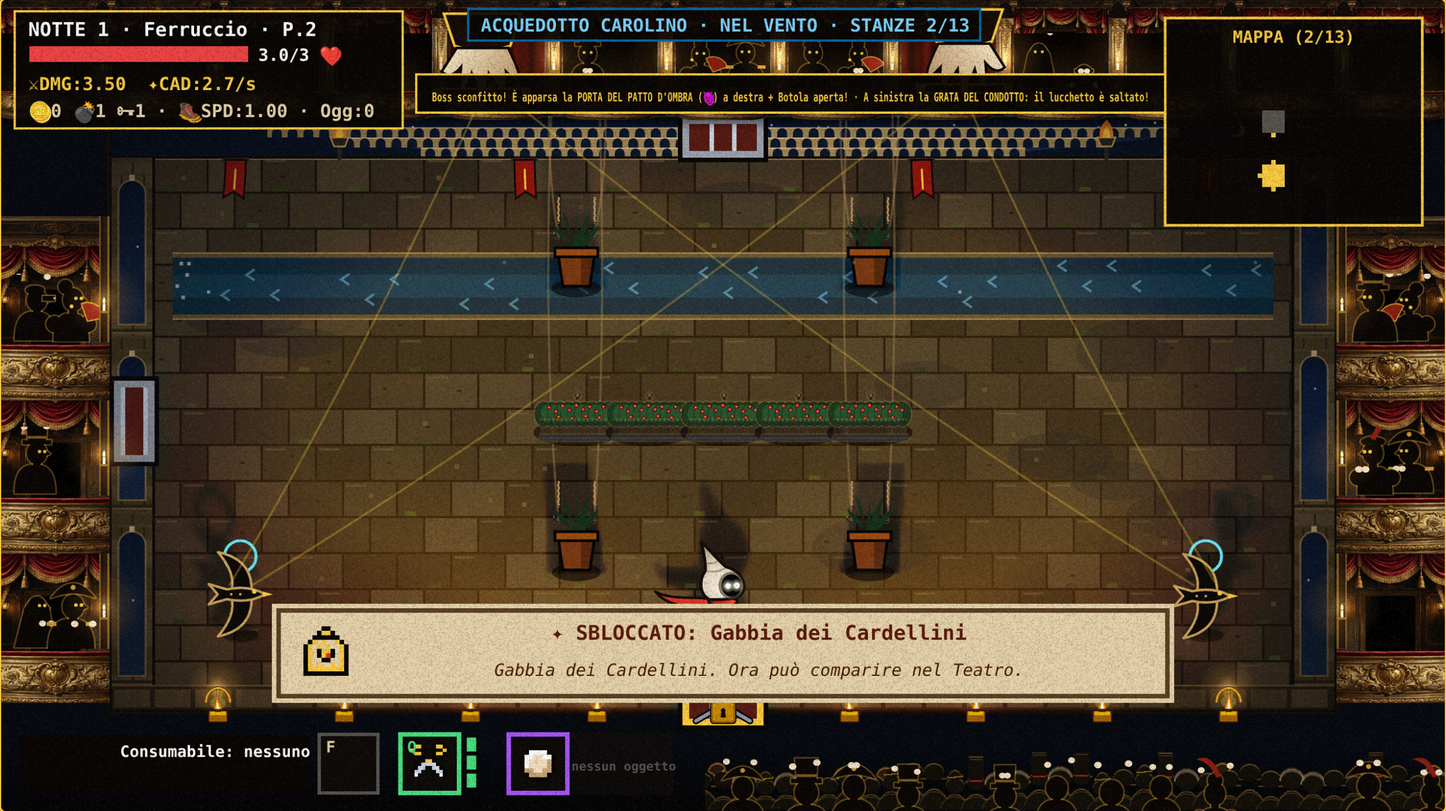
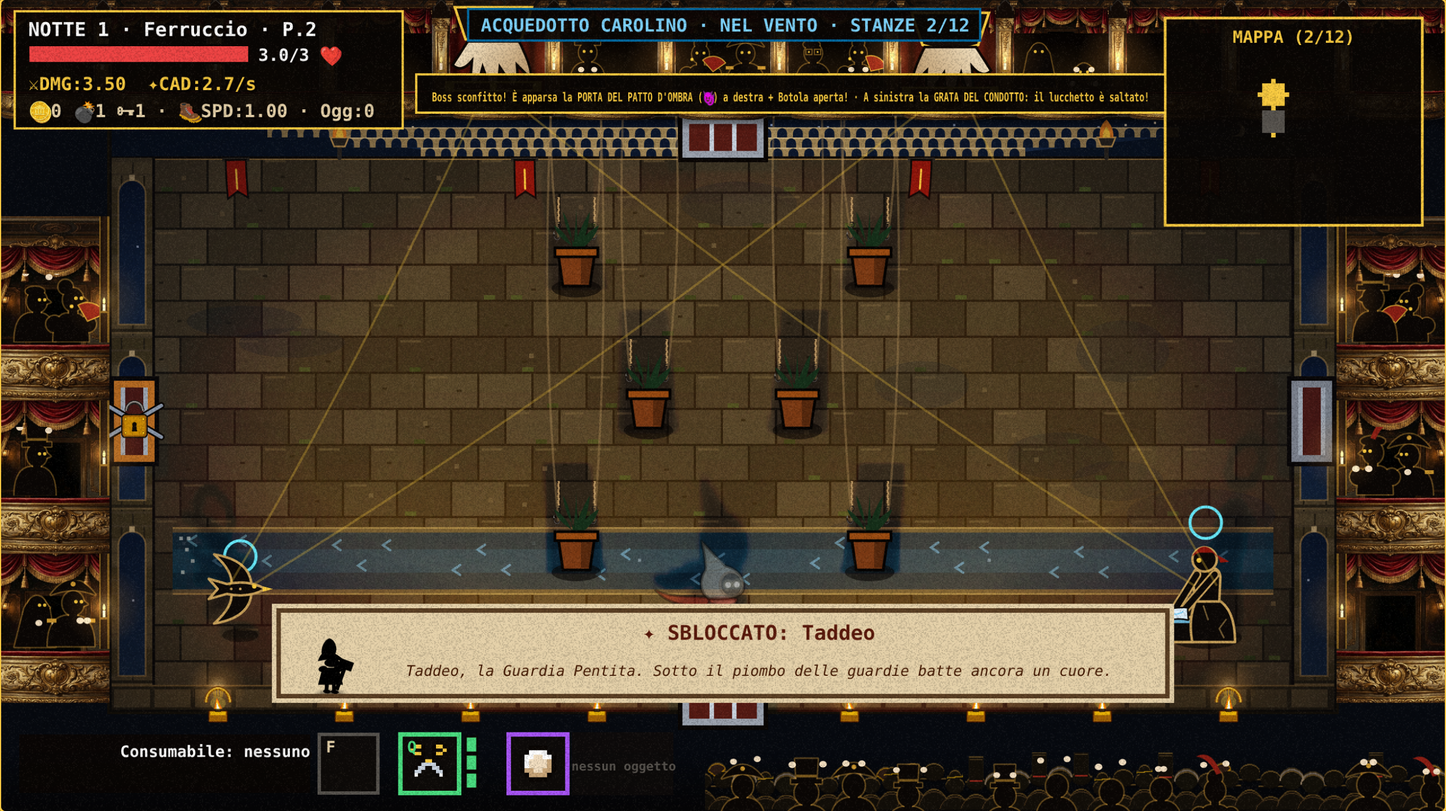
test(teatro): QA dell'Acquedotto a 100 controlli (i nemici del luogo cadono sotto i colpi veri senza errori) e foto aggiornate
Claude-Session: https://claude.ai/code/session_01F5x6kDAQ4qaiYDiFx9jQb5

diff --git a/tools/qa-teatro-acquedotto.js b/tools/qa-teatro-acquedotto.js
@@ -412,6 +412,22 @@ const foto = (n) => `${prefisso}-${n}.png`;
     await p.waitForTimeout(160);
     await primoPiano(`nemico-${tipo}`, pos.x, pos.y, 200, 140);
     await p.evaluate(() => { ticksCongelati = 0; });
+    // cade sotto i colpi veri (danneggiaNemico: macchie, crollo in pezzi di b2, premi del pubblico) senza errori
+    const morte = await p.evaluate(() => {
+      const I = window.__teatro.interni; const R = I.statoRun; const st = R.stanzaCorrente; const n = st.nemici[0];
+      const spinta = { x: n.x, y: n.y };
+      danneggiaNemico(n, 1, 1, 0);
+      for (let i = 0; i < 6; i++) { ticksCongelati = 0; passoLogico(); }
+      spinta.dopo = n.x - spinta.x;
+      danneggiaNemico(n, n.hp + 20, 1, 0);
+      for (let i = 0; i < 40; i++) { ticksCongelati = 0; passoLogico(); }
+      const out = { hp: n.hp, pulita: st.pulita, spinta: spinta.dopo, registro: I.runInCorsoA7 && I.runInCorsoA7() ? I.runInCorsoA7().nemiciUccisi : null };
+      st.pulita = false; // la stanza serve ancora alle prove che seguono
+      return out;
+    });
+    await p.waitForTimeout(350);
+    ok(`nemico:${tipo}:cade-senza-errori`, morte.hp <= 0 && morte.pulita && errori.length === 0, morte);
+    if (tipo === 'lavandaia_tufo') ok('nemico:lavandaia_tufo:statua-che-non-si-sposta', morte.spinta === 0, morte.spinta);
   }
   if (T.nemici.lavandaia_tufo) {
     const z = await p.evaluate(() => {
